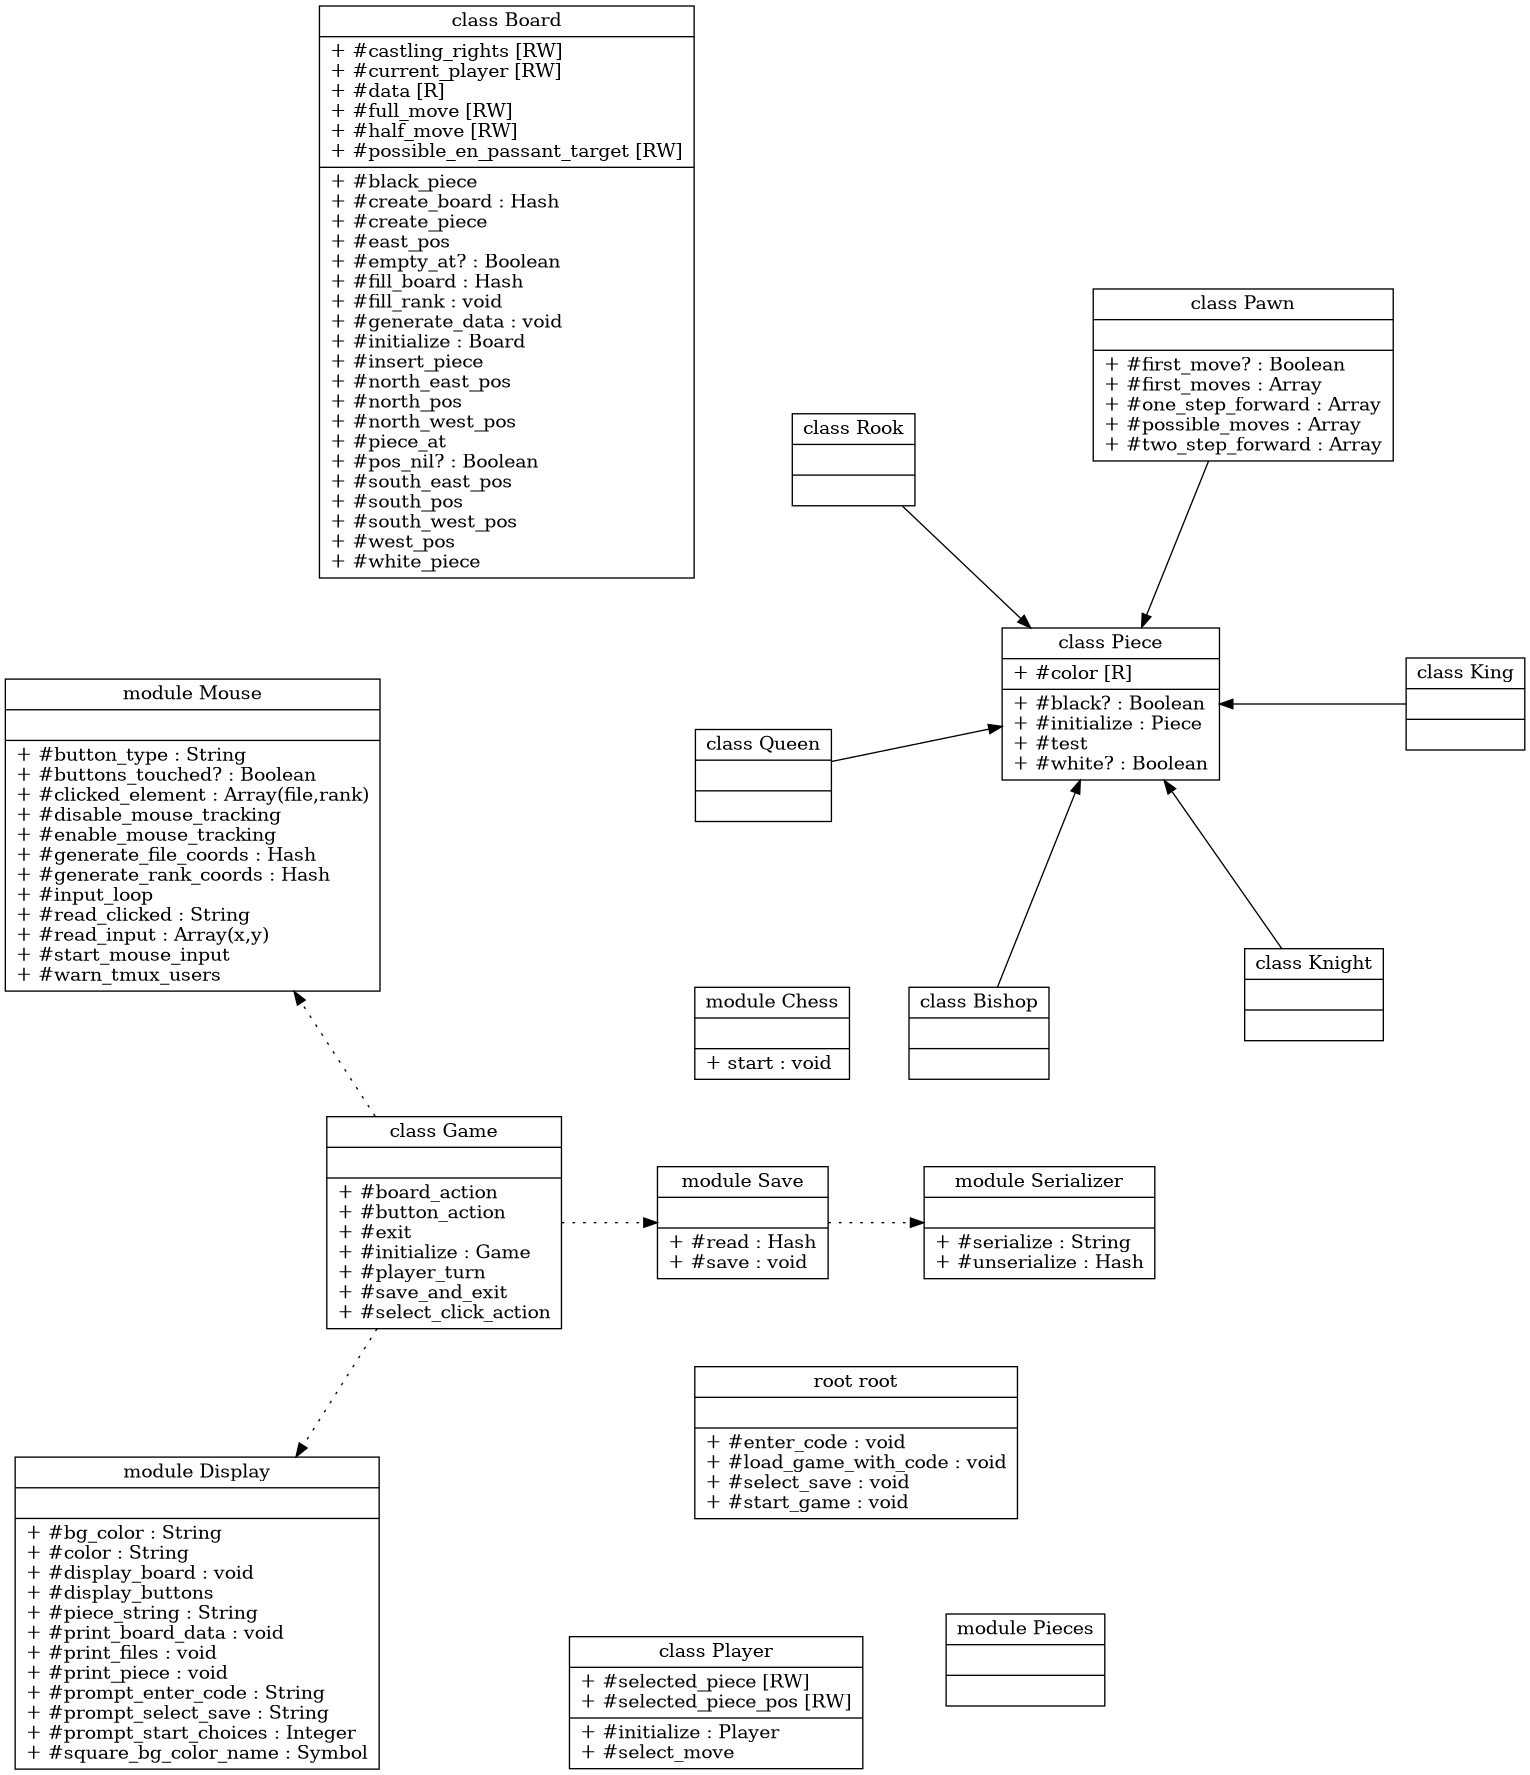
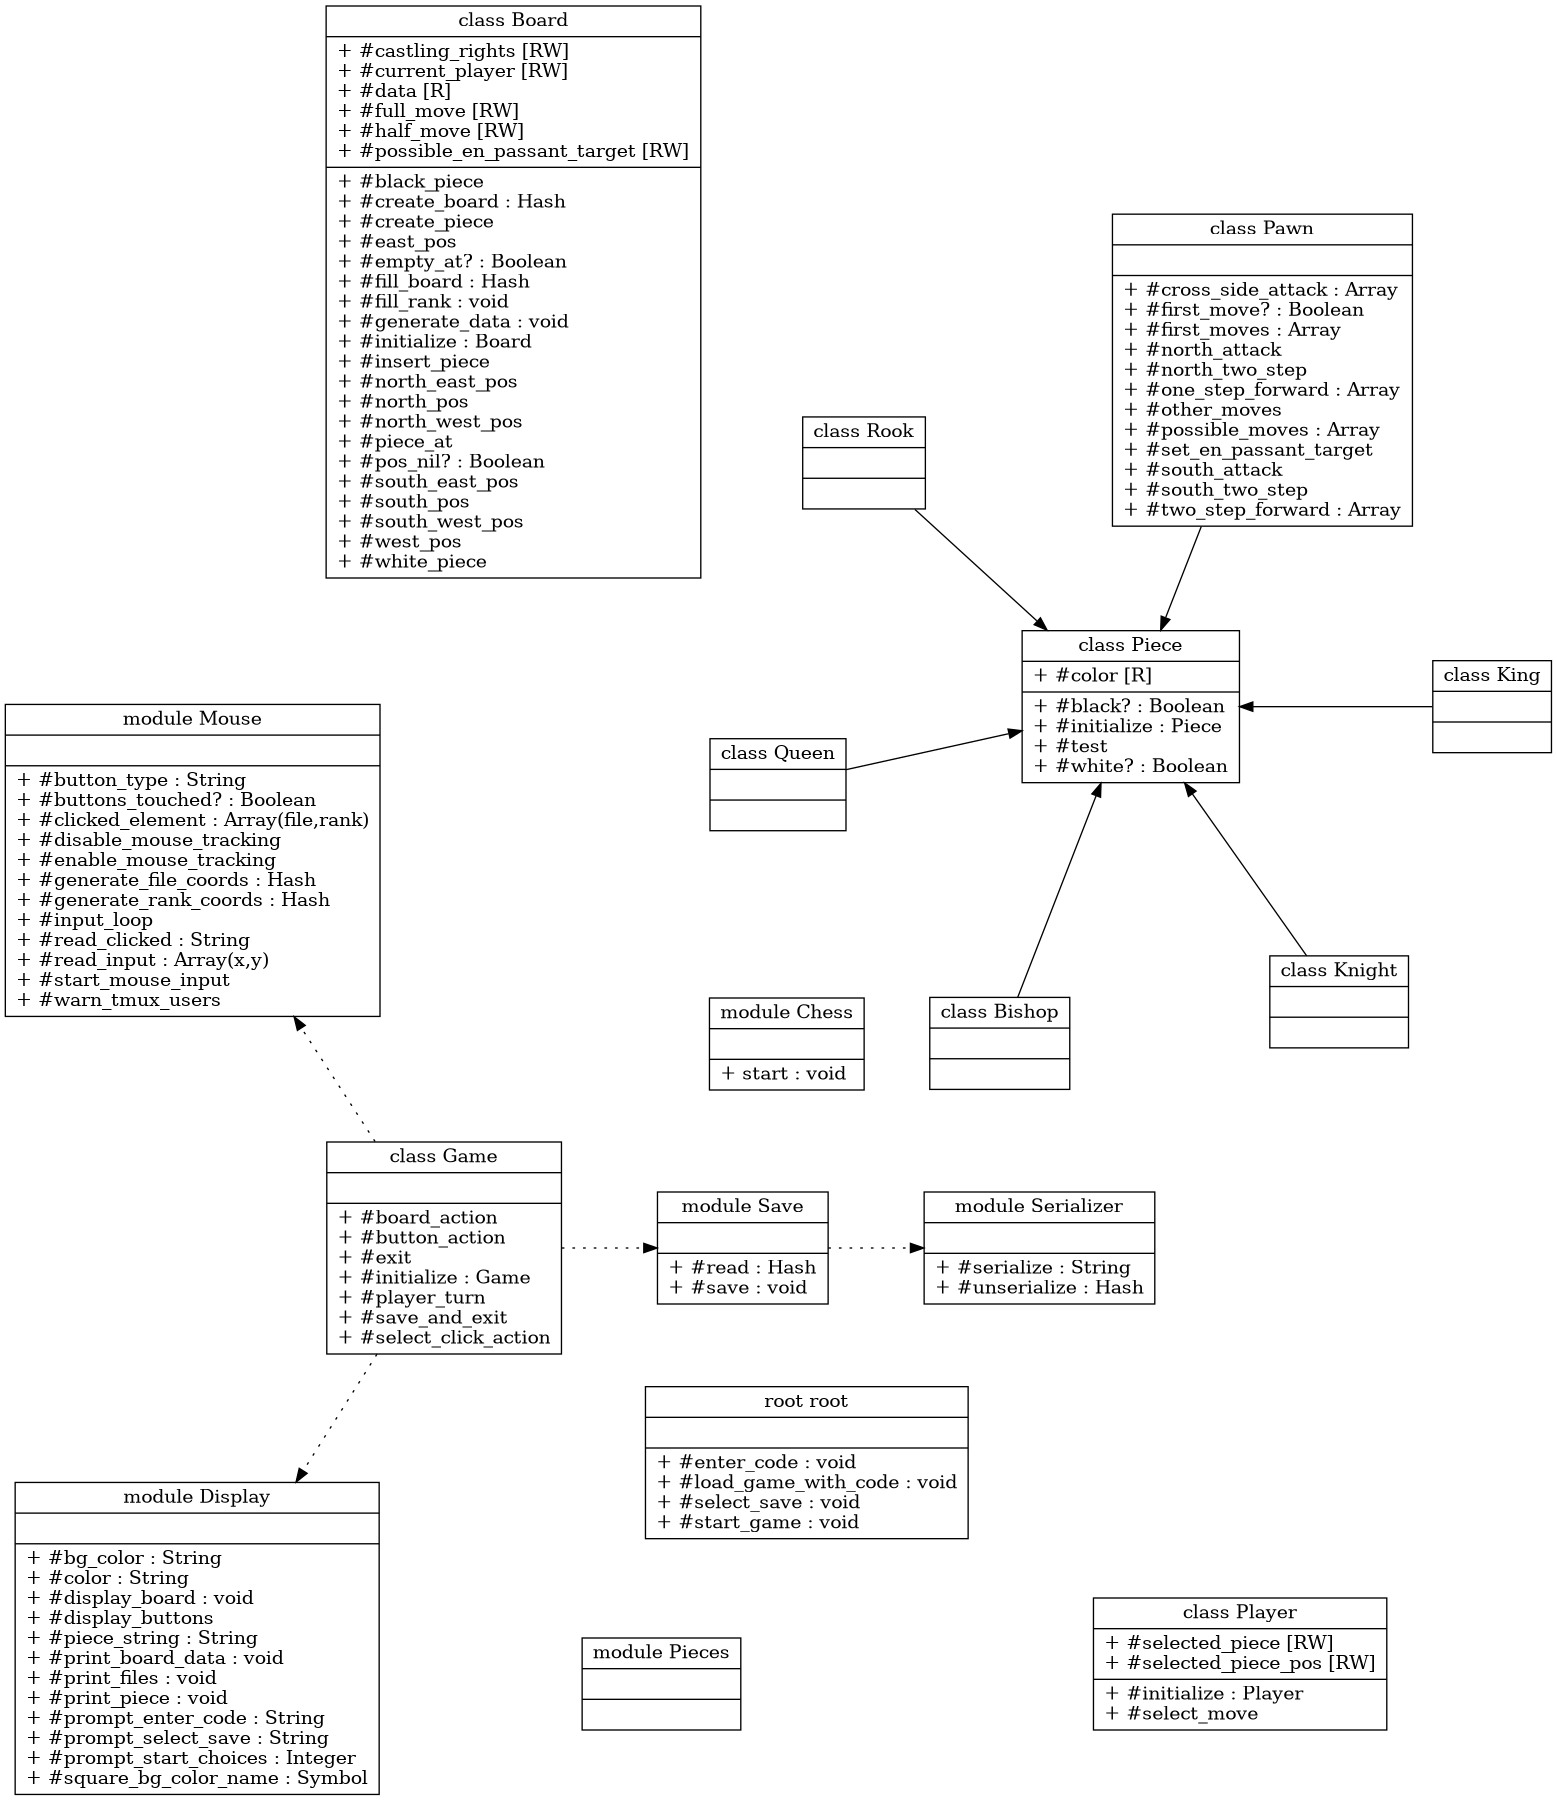
feat(lib,spec): add tests for pawn and add other moves

diff --git a/spec/chess/pieces/pawn_spec.rb b/spec/chess/pieces/pawn_spec.rb
@@ -1,9 +1,121 @@
 # frozen_string_literal: true
 
 describe Chess::Pieces::Pawn do
-  subject(:pawn) { described_class.new('white') }
+  subject(:board) { Chess::Board.new('3k4/ppp1pppp/1P2P1P1/4P3/4p3/1p2p1p1/PPP1PPPP/3K4 w - - 0 1') }
 
-  it 'output test' do
-    expect { pawn.test }.to output("hello world\n").to_stdout
+  describe '#possible_moves' do
+    # white pieces
+    context 'when called on a2' do
+      it 'returns correct 3 moves' do
+        piece = board.piece_at('a', 2)
+        expect(piece.possible_moves(board, ['a', 2])).to contain_exactly(['a', 3], ['a', 4], ['b', 3])
+      end
+    end
+
+    context 'when called on b2' do
+      it 'returns 0 moves' do
+        piece = board.piece_at('b', 2)
+        expect(piece.possible_moves(board, ['b', 2])).to be_empty
+      end
+    end
+
+    context 'when called on e4' do
+      it 'returns 0 moves' do
+        piece = board.piece_at('e', 4)
+        expect(piece.possible_moves(board, ['e', 4])).to be_empty
+      end
+    end
+
+    context 'when called on c2' do
+      it 'returns correct 3 moves' do
+        piece = board.piece_at('c', 2)
+        expect(piece.possible_moves(board, ['c', 2])).to contain_exactly(['c', 3], ['c', 4], ['b', 3])
+      end
+    end
+
+    context 'when called on f2' do
+      it 'returns correct 4 moves' do
+        piece = board.piece_at('f', 2)
+        expect(piece.possible_moves(board, ['f', 2])).to contain_exactly(['f', 3], ['f', 4], ['e', 3], ['g', 3])
+      end
+    end
+
+    context 'when called on h2' do
+      it 'returns correct 3 moves' do
+        piece = board.piece_at('h', 2)
+        expect(piece.possible_moves(board, ['h', 2])).to contain_exactly(['h', 3], ['h', 4], ['g', 3])
+      end
+    end
+
+    context 'when called on b6' do
+      it 'returns correct 2 moves' do
+        piece = board.piece_at('b', 6)
+        expect(piece.possible_moves(board, ['b', 6])).to contain_exactly(['a', 7], ['c', 7])
+      end
+    end
+
+    context 'when called on e6' do
+      it 'returns correct 1 move' do
+        piece = board.piece_at('e', 6)
+        expect(piece.possible_moves(board, ['e', 6])).to contain_exactly(['f', 7])
+      end
+    end
+
+    # black pieces
+    context 'when called on a7' do
+      it 'returns correct 3 moves' do
+        piece = board.piece_at('a', 7)
+        expect(piece.possible_moves(board, ['a', 7])).to contain_exactly(['a', 6], ['a', 5], ['b', 6])
+      end
+    end
+
+    context 'when called on b7' do
+      it 'returns 0 moves' do
+        piece = board.piece_at('b', 7)
+        expect(piece.possible_moves(board, ['b', 7])).to be_empty
+      end
+    end
+
+    context 'when called on e5' do
+      it 'returns 0 moves' do
+        piece = board.piece_at('e', 5)
+        expect(piece.possible_moves(board, ['e', 5])).to be_empty
+      end
+    end
+
+    context 'when called on c7' do
+      it 'returns correct 3 moves' do
+        piece = board.piece_at('c', 7)
+        expect(piece.possible_moves(board, ['c', 7])).to contain_exactly(['c', 6], ['c', 5], ['b', 6])
+      end
+    end
+
+    context 'when called on f7' do
+      it 'returns correct 4 moves' do
+        piece = board.piece_at('f', 7)
+        expect(piece.possible_moves(board, ['f', 7])).to contain_exactly(['f', 6], ['f', 5], ['e', 6], ['g', 6])
+      end
+    end
+
+    context 'when called on h7' do
+      it 'returns correct 3 moves' do
+        piece = board.piece_at('h', 7)
+        expect(piece.possible_moves(board, ['h', 7])).to contain_exactly(['h', 6], ['h', 5], ['g', 6])
+      end
+    end
+
+    context 'when called on b3' do
+      it 'returns correct 3 moves' do
+        piece = board.piece_at('b', 3)
+        expect(piece.possible_moves(board, ['b', 3])).to contain_exactly(['a', 2], ['c', 2])
+      end
+    end
+
+    context 'when called on e3' do
+      it 'returns correct 1 move' do
+        piece = board.piece_at('e', 3)
+        expect(piece.possible_moves(board, ['e', 3])).to contain_exactly(['f', 2])
+      end
+    end
   end
 end

diff --git a/lib/chess/pieces/pawn.rb b/lib/chess/pieces/pawn.rb
@@ -13,13 +13,11 @@ module Chess
       # @return [Array] moves
       def possible_moves(board, (file, rank))
         moves = []
-        if first_move?(rank)
-          pp 'first_move'
-          moves += first_moves(board, file, rank)
-        else
-          pp 'not first move'
-          moves += other_moves
-        end
+        moves += if first_move?(rank)
+                   first_moves(board, file, rank)
+                 else
+                   other_moves(board, file, rank)
+                 end
         moves
       end
 
@@ -39,6 +37,14 @@ module Chess
         moves = []
         moves += one_step_forward(board, file, rank)
         moves += two_step_forward(board, file, rank)
+        moves += cross_side_attack(board, file, rank)
+        moves.reject!(&:empty?)
+        moves
+      end
+
+      def other_moves(board, file, rank)
+        moves = []
+        moves += one_step_forward(board, file, rank)
         moves += cross_side_attack(board, file, rank)
         moves.reject!(&:empty?)
         moves
@@ -80,7 +86,7 @@ module Chess
       def north_two_step(board, file, rank)
         north_one_step = board.north_pos(file, rank)
         north_two_step = board.north_pos(*north_one_step)
-        return moves unless board.empty_at?(*north_one_step) && board.empty_at?(*north_two_step)
+        return [] unless board.empty_at?(*north_one_step) && board.empty_at?(*north_two_step)
 
         set_en_passant_target(board, file, rank)
         north_two_step
@@ -89,7 +95,7 @@ module Chess
       def south_two_step(board, file, rank)
         south_one_step = board.south_pos(file, rank)
         south_two_step = board.south_pos(*south_one_step)
-        return moves unless board.empty_at?(*south_one_step) && board.empty_at?(*south_two_step)
+        return [] unless board.empty_at?(*south_one_step) && board.empty_at?(*south_two_step)
 
         set_en_passant_target(board, file, rank)
         south_two_step

diff --git a/lib/chess/player.rb b/lib/chess/player.rb
@@ -14,7 +14,7 @@ module Chess
     # select a move
     # @param board [Chess::Board]
     # @param board_pos [Array]
-    def select_move(board, board_pos)
+    def select_move(board, _board_pos)
       # TODO: implement select_move
       possible_moves = @selected_piece.possible_moves(board, @selected_piece_pos)
       # valid_moves = @selected_piece.valid_moves(board, possible_moves, @selected_piece_pos)
@@ -23,8 +23,8 @@ module Chess
       # else
       #   pp 'invalid move'
       # end
-      pp board_pos
-      pp possible_moves
+      puts "selected_piece_pos => #{@selected_piece_pos}"
+      puts "possible_moves => #{possible_moves}"
     end
   end
 end

diff --git a/lib/chess/mouse/mouse_position.rb b/lib/chess/mouse/mouse_position.rb
@@ -12,7 +12,7 @@ module Chess
     # @param rank_coords [Hash]
     # @return [Array(file,rank)]
     def clicked_element((x, y), file_coords, rank_coords)
-      pp [file_coords[x], rank_coords[y]]
+      [file_coords[x], rank_coords[y]]
     end
 
     # generate file coords for the display

diff --git a/lib/chess/board_pos.rb b/lib/chess/board_pos.rb
@@ -6,7 +6,6 @@ module Chess
   class Board
     # the north pos from the given pos
     def north_pos(file, rank)
-      pp 'north_pos'
       [file, rank + 1]
     end
 

diff --git a/lib/chess/version.rb b/lib/chess/version.rb
@@ -2,5 +2,5 @@
 
 module Chess
   # VERSION following https://semver.org
-  VERSION = '0.19.0'
+  VERSION = '0.20.0'
 end
